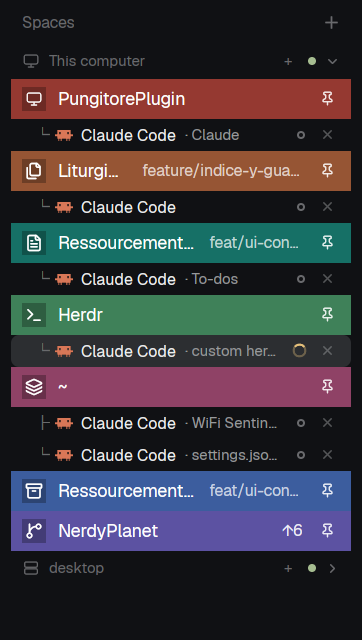
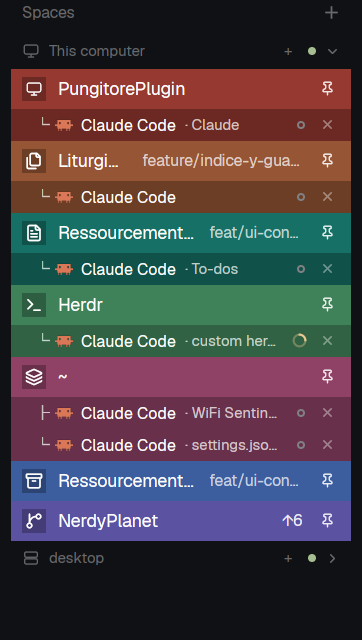
Give the agents their space's colour, and make the setup installable
The agents under a space now wear the space's own colour, a clear step
darker than the space's row, in a band with square corners and white
letters on it. The state marks keep their own colours, brightened to
read against the darker ground, and the close button turns white
instead of red.

install.sh puts this setup into Herdr's home in one command: the mods,
the layout, the themes, the keys and the settings. What was there
before is kept in a timestamped folder, and mods of your own are left
alone. The README says how to use it.

diff --git a/mods/herdr-spaces/main.js b/mods/herdr-spaces/main.js
@@ -115,13 +115,22 @@ function pic(p, size, color) {
 }
 
 // The state of an agent, as a mark: a spinner while it works, a bang when it
-// needs the person, a ring when it is idle, a dot when it is done.
-function mark(t, status) {
-  if (status === "working") return svg("mods/workspace-chrome/spinner.svg").size(11).mx(1).flex_none().text_color(t.working).spin(900);
-  if (status === "blocked") return div().size(13).flex_none().rounded(4).bg(t.blocked + "26").text_size(9.5).font_bold().text_color(t.blocked).flex().items_center().justify_center().child("!");
-  if (status === "idle") return div().size(6).mx(2).flex_none().rounded_full().border(1.5).border_color(t.idle ?? t.dim);
-  if (status === "done") return div().size(6).mx(2).flex_none().rounded_full().bg(t.done ?? t.dim);
+// needs the person, a ring when it is idle, a dot when it is done. On a
+// coloured ground the mark keeps its own colour, brightened to still read.
+function mark(t, status, banded) {
+  const c = (x) => (banded ? lighten(x, 0.15) : x);
+  if (status === "working") return svg("mods/workspace-chrome/spinner.svg").size(11).mx(1).flex_none().text_color(c(t.working)).spin(900);
+  if (status === "blocked") return div().size(13).flex_none().rounded(4).bg(banded ? "#ffffff2e" : t.blocked + "26").text_size(9.5).font_bold().text_color(c(t.blocked)).flex().items_center().justify_center().child("!");
+  if (status === "idle") return div().size(6).mx(2).flex_none().rounded_full().border(1.5).border_color(c(t.idle ?? t.dim));
+  if (status === "done") return div().size(6).mx(2).flex_none().rounded_full().bg(c(t.done ?? t.dim));
   return div().size(6).mx(2).flex_none();
+}
+
+// The colour the agents of a space wear: the space's own colour, a clear step
+// darker than the space's block, so the group reads as part of the space.
+function agentBand(fill) {
+  const ground = deepen(fill, 0.52);
+  return { ground, on: lighten(ground, 0.08), hover: lighten(ground, 0.16) };
 }
 
 // A space speaks up only when something in it needs you.
@@ -594,11 +603,12 @@ export default class Spaces extends View {
   }
 
   // An agent under its space: what it is, what it is doing, and the way to
-  // close it without taking the space with it.
-  agentRow(t, space, a, last) {
+  // close it without taking the space with it. The row wears the space's own
+  // colour, a step darker than the space's block, with white letters on it.
+  agentRow(t, space, a, last, band) {
     const label = this.agentLabel(a);
     const shown = focused()?.agent === a.address;
-    const icon = pic(a.program, 13, t.muted);
+    const icon = pic(a.program, 13, "#ffffffb8");
     // Only an agent whose terminal we can see is ours to close.
     const closable = this.terminals.some((x) => x.address === a.address);
     const close = h_flex()
@@ -608,14 +618,14 @@ export default class Spaces extends View {
       .justify_center()
       .items_center()
       .cursor_pointer()
-      .opacity(0.5)
-      .hover((s) => s.opacity(1).text_color(t.blocked))
+      .opacity(0.55)
+      .hover((s) => s.opacity(1).text_color("#ffffff"))
       .tooltip("Close this agent. The space stays.")
       .on_click((_e, cx) => {
         cx.stop_propagation();
         this.closeAgent(space, a);
       })
-      .child(svg("mods/workspace-chrome/x.svg").size(11).flex_none().text_color(t.muted));
+      .child(svg("mods/workspace-chrome/x.svg").size(11).flex_none().text_color("#ffffffb8"));
     return h_flex()
       .id(`agent-${a.address}`)
       .h(24)
@@ -623,24 +633,24 @@ export default class Spaces extends View {
       .pr(8)
       .gap(6)
       .items_center()
-      .rounded(6)
-      .when(shown, (el) => el.bg(t.raised))
-      .hover((s) => s.bg(t.hover))
+      .bg(shown ? band.on : band.ground)
+      .hover((s) => s.bg(band.hover))
       .on_click(() => run("pane.focus", { pane: a.pane }))
-      .child(div().w(9).flex_none().text_size(11).text_color(t.dim).child(last ? "└" : "├"))
+      .child(div().w(9).flex_none().text_size(11).text_color("#ffffffb8").child(last ? "└" : "├"))
       .when(Boolean(icon), (el) => el.child(icon))
-      .child(div().flex_none().max_w(96).truncate().text_size(12).text_color(t.foreground).child(label.name))
-      .child(div().flex_1().min_w(0).truncate().text_size(11).text_color(t.muted).child(label.detail ? `· ${label.detail}` : ""))
-      .child(mark(t, a.status))
+      .child(div().flex_none().max_w(96).truncate().text_size(12).text_color("#ffffff").child(label.name))
+      .child(div().flex_1().min_w(0).truncate().text_size(11).text_color("#ffffffb8").child(label.detail ? `· ${label.detail}` : ""))
+      .child(mark(t, a.status, true))
       .when(closable, (el) => el.child(close));
   }
 
-  // A kept sub-agent, under the agent that spawned it.
-  subAgentRow(t, s) {
+  // A kept sub-agent, under the agent that spawned it. It wears the same
+  // colour as the agent above it, with the tree lines in white.
+  subAgentRow(t, s, band) {
     const k = s.t;
     const status = k.status === "error" ? "blocked" : k.status === "done" ? "idle" : k.status;
     const shown = focused()?.agent === k.address;
-    const icon = pic(k.program, 13, t.dim);
+    const icon = pic(k.program, 13, "#ffffffb8");
     return h_flex()
       .id(`sub-${k.address}`)
       .h(22)
@@ -648,9 +658,8 @@ export default class Spaces extends View {
       .pr(8)
       .gap(0)
       .items_center()
-      .rounded(6)
-      .when(shown, (el) => el.bg(t.raised))
-      .hover((s) => s.bg(t.hover))
+      .bg(shown ? band.on : band.ground)
+      .hover((s) => s.bg(band.hover))
       .on_click(() => (this.listed.has(k.address) ? run("pane.focus", { terminal: k.address }) : run("terminal.peek", { terminal: k.address })))
       .children(
         s.lines.map((l) =>
@@ -661,13 +670,13 @@ export default class Spaces extends View {
             .h(17)
             .mr(4)
             .flex_none()
-            .when(Boolean(l), (el) => el.border_l(1.5).border_color(t.input))
-            .when(l === "└" || l === "├", (el) => el.border_b(1.5).rounded_bl(6)),
+            .when(Boolean(l), (el) => el.border_l(1.5).border_color("#ffffff6e"))
+            .when(l === "└" || l === "├", (el) => el.border_b(1.5)),
         ),
       )
       .when(Boolean(icon), (el) => el.child(icon))
-      .child(div().min_w(0).flex_1().truncate().text_size(11.5).text_color(t.muted).child(k.name || k.template || k.program?.name || k.address))
-      .child(mark(t, status));
+      .child(div().min_w(0).flex_1().truncate().text_size(11.5).text_color("#ffffffb8").child(k.name || k.template || k.program?.name || k.address))
+      .child(mark(t, status, true));
   }
 
   // Closing an agent must not take its space with it: Herdr ends a space when
@@ -810,10 +819,11 @@ export default class Spaces extends View {
     // works.
     const here = this.agentsOf(w.id, this.terminals);
     if (!here.length) return spaceRow;
+    const band = agentBand(fill);
     const rows = [];
     here.forEach((a, n) => {
-      rows.push(this.agentRow(t, w, a, n === here.length - 1));
-      for (const s of this.subTree(this.terminals, a.address)) rows.push(this.subAgentRow(t, s));
+      rows.push(this.agentRow(t, w, a, n === here.length - 1, band));
+      for (const s of this.subTree(this.terminals, a.address)) rows.push(this.subAgentRow(t, s, band));
     });
     return v_flex().id(`space-group-${w.id}`).flex_none().child(spaceRow).children(rows);
   }

diff --git a/mods/herdr-spaces/RECIPE.md b/mods/herdr-spaces/RECIPE.md
@@ -1,6 +1,6 @@
 # Spaces
 
-The left sidebar: a scrollable list of the places you work, one row per space, and under each space the agents working in it. Every space row is a solid block of the space's own colour, deepened so the white name on it reads, with a small square chip at the left carrying the space's icon or its first letter. A space that is not a git checkout shows nothing after its name; a space inside a repository shows the repository and the branch after it, and how many commits it is ahead or behind — but only where that is unusual, so the usual "on main" is left out. The rows are grouped under a header per computer, so a space that lives on another machine sits under that machine's name with its own icon and a dot saying whether the machine is up. Clicking a row switches to that space, right-clicking opens its menu, dragging a row onto another reorders it. An agent's row under its space can be closed from there, and the space stays.
+The left sidebar: a scrollable list of the places you work, one row per space, and under each space the agents working in it. Every space row is a solid block of the space's own colour, deepened so the white name on it reads, with a small square chip at the left carrying the space's icon or its first letter. A space that is not a git checkout shows nothing after its name; a space inside a repository shows the repository and the branch after it, and how many commits it is ahead or behind — but only where that is unusual, so the usual "on main" is left out. The rows are grouped under a header per computer, so a space that lives on another machine sits under that machine's name with its own icon and a dot saying whether the machine is up. Clicking a row switches to that space, right-clicking opens its menu, dragging a row onto another reorders it. An agent's row under its space can be closed from there, and the space stays; the agents wear their space's colour, a step darker than the space's own row.
 
 ![Spaces](preview.png)
 
@@ -20,19 +20,19 @@ Top to bottom:
   - **The pin**: an 11px `mods/workspace-chrome/pin.svg` in white at 88% (`#ffffffe0`), in a slot 18px wide, on a pinned space.
   - **The hover buttons**: three 19px squares, 1px apart, drawn in white at 88% — `workspace-chrome/terminal.svg` (start Claude), `herdr-dock/palette.svg` (icon and colour), `workspace-chrome/file-text.svg` (notes). Under the pointer one of them takes white at 20% (`#ffffff33`).
 - **A row nested under its repository**: indented 22px, starting with a 13px `workspace-chrome/branch.svg` in white at 88% instead of the letter chip. It shows no repository name — it is under it.
-- **An agent of that space, under the space's row**: 24px tall, indented 18px, on the plain `theme().chrome` (not the space's colour), corners rounded 6. Left to right: a 9px tree mark (`└` for the last agent of the space, `├` for the others) in `theme().dim`; the program's own icon at 13px — the Claude Code glyph for Claude, in `theme().muted`; the program's name in 12px `theme().foreground`, at most 96px wide; what the agent is working on in 11px `theme().muted` after a "·", taking the width that is left; the agent's state; and a close button.
+- **An agent of that space, under the space's row**: 24px tall, indented 18px, filled with the space's own colour a clear step darker than the space's row (the colour deepened 52% instead of 34%), square corners, with white letters on it. Left to right: a 9px tree mark (`└` for the last agent of the space, `├` for the others) in white at 72%; the program's own icon at 13px — the Claude Code glyph for Claude, in white at 72%; the program's name in 12px white, at most 96px wide; what the agent is working on in 11px white at 72% after a "·", taking the width that is left; the agent's state; and a close button.
   - **The name**: the program's name ("Claude Code"), or "Agent" for a program the table does not name.
   - **The work**: the title the agent reported, when that says more than the program's name — "custom herdr repo visibility", "To-dos". When the title says nothing (it is the program's own name, a path, or empty), the name of the tab the agent works in is shown instead, if somebody named that tab. A title that is only the program's name in lower case ("claude") is not shown either.
-  - **The state**: a 11px arc turning once every 900ms (`mods/workspace-chrome/spinner.svg`) in `theme().working` while the agent works; a 13px square with a bold "!" in `theme().blocked` on `theme().blocked` at 15% when the agent is blocked; a 6px ring in `theme().idle` when it is idle; a 6px dot in `theme().done` when it finished while you were looking away; nothing at all when the state is unknown.
-  - **The close button**: a 12px `mods/workspace-chrome/x.svg` in `theme().muted` at half opacity, in an 18px slot at the right end; under the pointer it turns `theme().blocked`. It is drawn only for an agent whose terminal Herdr knows about.
-- **A sub-agent, under the agent that spawned it**: 22px tall, with the tree drawn in lines — a 1.5px `theme().input` rule for each level, the last one ending in a rounded bottom corner — then the program's icon at 13px, its name in 11.5px `theme().muted`, and its state.
+  - **The state**: a 11px arc turning once every 900ms (`mods/workspace-chrome/spinner.svg`) in `theme().working` while the agent works; a 13px square with a bold "!" in `theme().blocked` on `theme().blocked` at 15% when the agent is blocked; a 6px ring in `theme().idle` when it is idle; a 6px dot in `theme().done` when it finished while you were looking away; nothing at all when the state is unknown. On the coloured band each of these colours is brightened 15% toward white, so it still reads against the darker ground; the blocked "!" sits on a white badge at 18% instead of a blocked-coloured one.
+  - **The close button**: a 12px `mods/workspace-chrome/x.svg` in white at 72%, at 55% opacity, in an 18px slot at the right end; under the pointer it turns full white. It is drawn only for an agent whose terminal Herdr knows about.
+- **A sub-agent, under the agent that spawned it**: 22px tall, on the same band as the agent above it, with the tree drawn in lines — a 1.5px white rule at 43% for each level — then the program's icon at 13px in white at 72%, its name in 11.5px white at 72%, and its state.
 - **The end of an empty group**: a 28px row, corners rounded 7, reading "New space there" with a 12px `workspace-chrome/plus.svg`, in 12px `theme().dim`; under the pointer it takes `theme().hover` and `theme().foreground`.
 - **A group still loading**: a 28px row reading "Loading…" in 12px `theme().dim`.
 - **A machine that needs a login**: under its header, a two-line block — "needs a login: run" in 11px `theme().blocked`, then `hc machine login <name>` in 11px `theme().muted`, then a "Copy" button (12px tall, `theme().raised` behind, `theme().hover` under the pointer) that reads "Copied" after it is pressed.
 - **A machine that was rebuilt or replaced**: its header shows "rebuilt ·" (or the error) and a "Connect" link in `theme().muted` (`theme().foreground` under the pointer).
 - **A machine whose agents stop at logout**: a `theme().blocked` "⚠" after the name.
 
-The colours are the space's own, and there are six of them: `ansi6` `#22a99a`, `ansi3` `#e3814f`, `ansi4` `#5b8def`, `ansi5` `#8b7cf6`, `ansi2` `#3fae6a`, `ansi1` `#d9649a`. A space that has no colour of its own gets the least-used of the six. Each is darkened by 34% for the row, and the row you are in is that shade lightened 10% toward white, the row under the pointer 20% toward white. In full, `ansi6`: row `#167066`, active `#2d7e75`, under the pointer `#458d85`.
+The colours are the space's own, and there are six of them: `ansi6` `#22a99a`, `ansi3` `#e3814f`, `ansi4` `#5b8def`, `ansi5` `#8b7cf6`, `ansi2` `#3fae6a`, `ansi1` `#d9649a`. A space that has no colour of its own gets the least-used of the six. Each is darkened by 34% for the row, and the row you are in is that shade lightened 10% toward white, the row under the pointer 20% toward white. In full, `ansi6`: row `#167066`, active `#2d7e75`, under the pointer `#458d85`. The agents under a space wear the same colour darkened 52% instead of 34%, so the group reads as part of the space above it: `ansi6` band `#10514a`, the agent you are in `#235f58`, the one under the pointer `#366d67`.
 
 **How it behaves:**
 
@@ -76,7 +76,7 @@ The colours are the space's own, and there are six of them: `ansi6` `#22a99a`, `
   ```
 
   The mod's block carries no props: `{ "mod": "herdr-spaces" }`. `mod.json` is `{ "place": "none", "title": "Spaces", "cloned_from": { "name": "spaces", "version": "0.1.16" } }` — `"place": "none"` means it appears only where a layout puts it.
-- **The mod itself.** `mods/herdr-spaces/main.js`, a clone of Herdr's shipped `spaces` mod (version 0.1.16) with these changes: rows are filled with the space's colour deepened 34% instead of the theme's selected colour, the name is white instead of `theme().foreground`, the letter chip is white at 19% and the icon chip black at 27%, the git tail is white-tinted instead of `theme().dim`, the space's icon is drawn (the shipped mod has only the letter), a pin glyph and three hover buttons were added, the row corners are square instead of rounded 8, and the right-click menu is `herdr-menu` (230x320) instead of the shipped `menu` (200x260). The agents of a space are listed under its row, with a close button each. `main.js` also exports `glyph(status)` and `tone(theme, status)`, which nothing else in this setup imports.
+- **The mod itself.** `mods/herdr-spaces/main.js`, a clone of Herdr's shipped `spaces` mod (version 0.1.16) with these changes: rows are filled with the space's colour deepened 34% instead of the theme's selected colour, the name is white instead of `theme().foreground`, the letter chip is white at 19% and the icon chip black at 27%, the git tail is white-tinted instead of `theme().dim`, the space's icon is drawn (the shipped mod has only the letter), a pin glyph and three hover buttons were added, the row corners are square instead of rounded 8, and the right-click menu is `herdr-menu` (230x320) instead of the shipped `menu` (200x260). The agents of a space are listed under its row, on a band of the space's own colour deepened 52%, with a close button each. `main.js` also exports `glyph(status)` and `tone(theme, status)`, which nothing else in this setup imports.
 - **`herdr` functions it calls.** `spaces()`, `machines()`, `panes()`, `agents()`, `terminals()`, `focused()`, `run(name, args)`, `openOverlay(spec)`, `exec(cmd, args, {cwd, on})`, `hc(args)`, `theme()`, `shared(key)`, `setShared(key, value)`, `watchFolder(path)`, `window()`, `layout()`.
 - **Commands it runs.** `space.select {id}`, `space.move {id, index}` (index is 1-based), `space.new {}` and `space.new {machine}`, `tab.new {name: "Claude", space, argv: ["claude", "--dangerously-skip-permissions"]}`, `app.settings {section: "machines"}`, and for the agents under a space: `pane.focus {pane}`, `tab.close {id, confirmed: true}`, `tab.new {space, folder, focus: false}` and `pane.close {pane}`.
 - **Overlays it opens.** `herdr-menu` as a popup 230x320 with `props {tab: "space", target: {id}}`; `herdr-look` as a dialog 430x600 with `props {space}`; `herdr-notes` as a dialog 480x580 with `props {space}`; the shipped `machine-add` as a dialog 560 wide.
@@ -119,7 +119,7 @@ The colours are the space's own, and there are six of them: `ansi6` `#22a99a`, `
 - `herdr-app check ~/.config/herdr-app/mods/herdr-spaces` exits 0 (it warns that `hc` ran for real).
 - With one space open, the sidebar shows one 30px row: an 18px chip with the space's first letter in white on white-at-19%, the space's name in white, and the row filled with the space's colour deepened 34% (`#167066` for `ansi6`).
 - Clicking that row switches to the space and the terminal block follows it.
-- With an agent working in that space, a 24px row appears under it: the program's icon, "Claude Code", what it is working on after a "·", its state, and an × at the right end.
+- With an agent working in that space, a 24px row appears under it: the program's icon, "Claude Code", what it is working on after a "·", its state, and an × at the right end — on a band of the space's own colour, deepened 52%, with the letters in white.
 - Clicking an agent's row focuses its pane, and the space and tab it works in come to the front.
 - Clicking the × on an agent's row ends that agent and leaves the space in the list with its pin; when the agent held the space's only tab, a plain shell tab is left behind in its place.
 - With a space inside a git repository on a branch that is neither `main` nor `master`, the row shows "repository · branch" in white at 72%, and `↑N` / `↓N` appear once the repository is ahead or behind.

diff --git a/README.md b/README.md
@@ -16,7 +16,7 @@ when you build it, and how you know it works.
 
 | Mod | What it is | Recipe |
 |---|---|---|
-| [`herdr-spaces`](mods/herdr-spaces) | The spaces list in the sidebar: every space a solid block of its own colour, grouped by machine, with the agents working in it under the space | [recipe](mods/herdr-spaces/RECIPE.md) |
+| [`herdr-spaces`](mods/herdr-spaces) | The spaces list in the sidebar: every space a solid block of its own colour, grouped by machine, with the agents working in it under the space, in that colour a shade darker | [recipe](mods/herdr-spaces/RECIPE.md) |
 | [`herdr-agents`](mods/herdr-agents) | The standalone agents list — kept, but no longer in the layout: the agents live under their space | [recipe](mods/herdr-agents/RECIPE.md) |
 | [`herdr-dock`](mods/herdr-dock) | The strip at the foot of the sidebar: the theme, how much of the plan is left, the notes | [recipe](mods/herdr-dock/RECIPE.md) |
 | [`herdr-tabs`](mods/herdr-tabs) | The tab bar, the active tab in the colour of its space | [recipe](mods/herdr-tabs/RECIPE.md) |
@@ -44,18 +44,36 @@ its `mod.json` under `cloned_from`. See [NOTICE](NOTICE).
 
 ## Installing it
 
-Herdr reads everything from `~/.config/herdr-app`. To try this setup:
+Send someone this link — <https://github.com/1Samuel7/pungitore-herdr> — and
+they can get this exact setup with one command. Herdr reads everything from
+`~/.config/herdr-app` (`HERDR_APP_HOME` picks another):
 
 ```sh
 git clone https://github.com/1Samuel7/pungitore-herdr.git
 cd pungitore-herdr
+./install.sh
+```
+
+The script copies the mods, the layout, the themes, the keys and the settings
+into Herdr's home, keeps a copy of what was there before in a timestamped
+folder, and leaves mods of your own alone. Herdr has to be running for the new
+layout to show up.
+
+Then switch to the layout:
+
+```sh
+herdr-app do layout.switch '{"name": "herdr"}'
+```
+
+or pick it in the menu. Herdr applies layout and key changes live; mods reload
+themselves as you edit them.
+
+By hand, without the script:
+
+```sh
 cp -r mods/* layouts/herdr.json themes/* ~/.config/herdr-app/
 cp keys.json settings.json ~/.config/herdr-app/
 ```
-
-Then switch to the layout with `layout.switch {name: "herdr"}`, or pick it in
-the menu. Herdr applies layout and key changes live; mods reload themselves as
-you edit them.
 
 Herdr's own mods — `agents`, `tabs`, `pane`, `spaces`, `menu`, `files`,
 `changes` and the rest — are not in this repository. They come with Herdr, and
